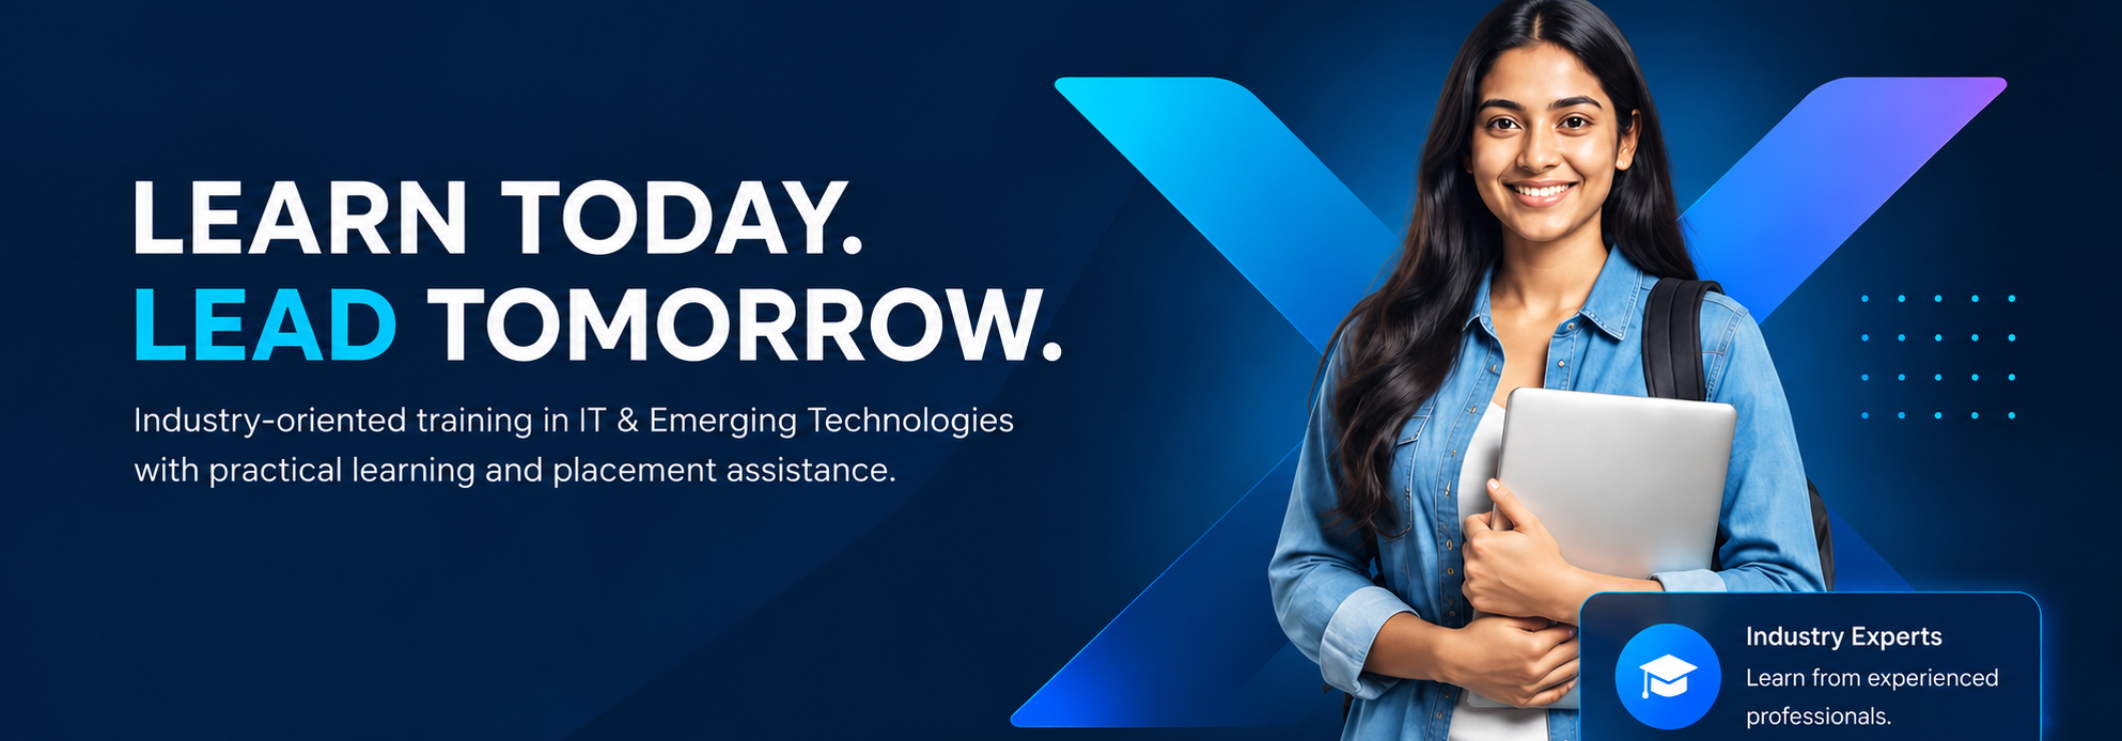
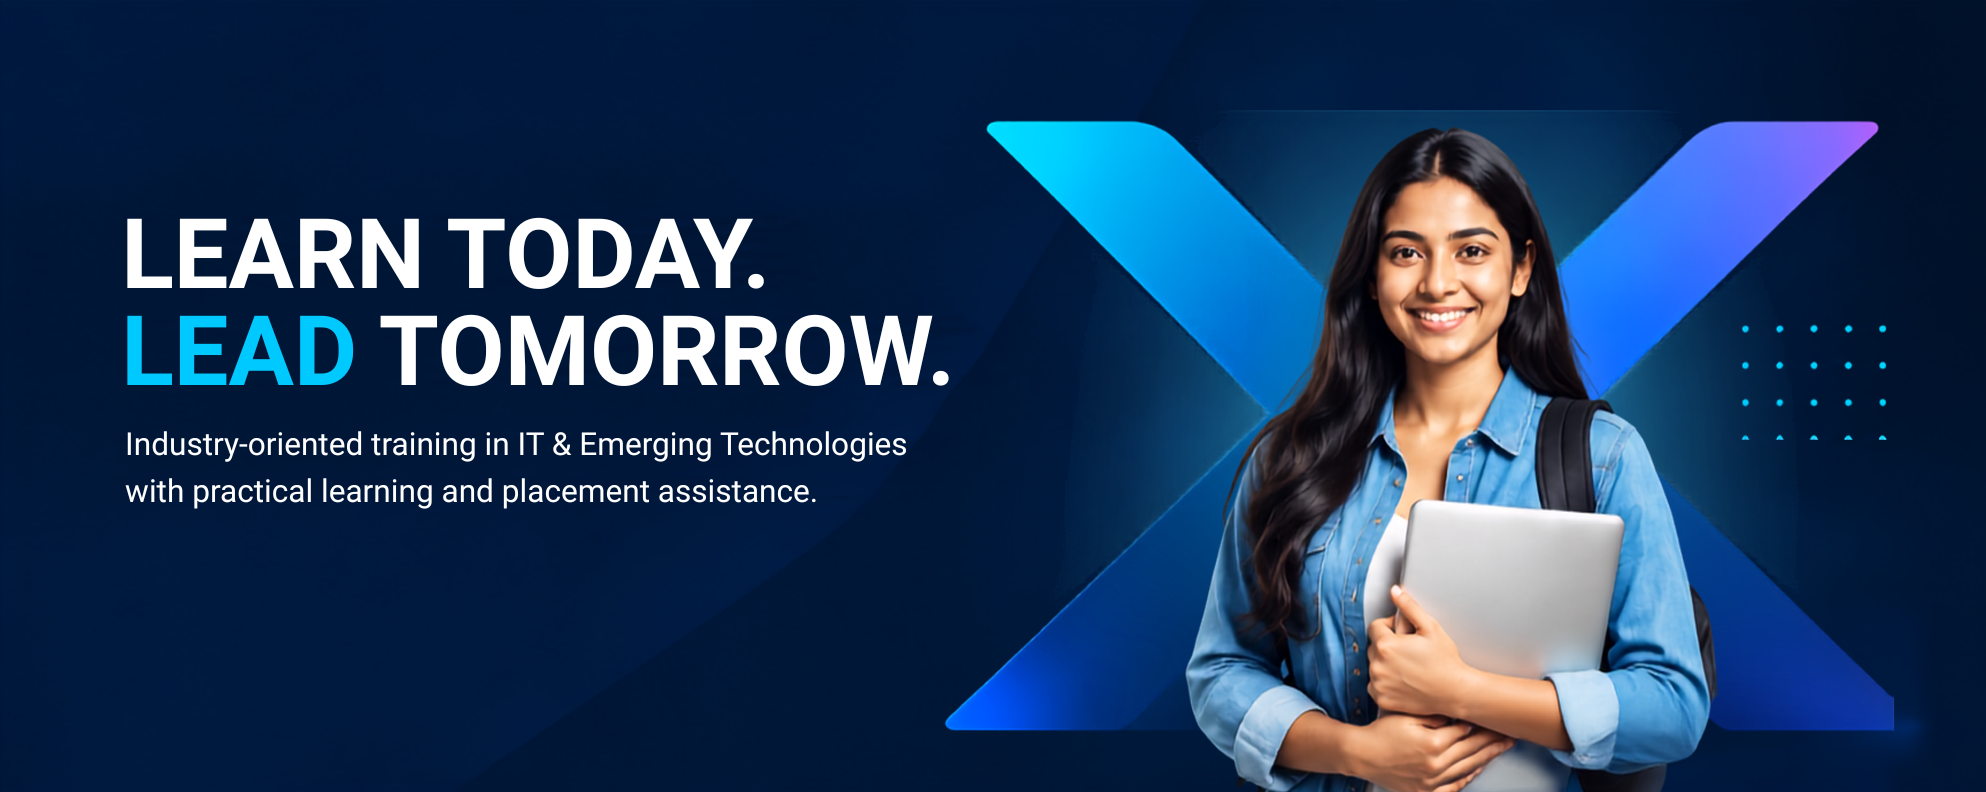
Added Smooth Scroll Effect

diff --git a/frontend/src/pages/Pageloader.jsx b/frontend/src/pages/Pageloader.jsx
@@ -1,68 +1,56 @@
-const orbitItems = ["</>", "AI", "JS", "{ }", "PY", "UX"];
-
 export default function PageLoader({ compact = false }) {
   return (
     <div
-      className={`${compact ? "min-h-[22rem]" : "fixed inset-0 z-[9998] min-h-screen"} grid place-items-center overflow-hidden bg-[#071426] px-6 text-white`}
+      className={`${
+        compact
+          ? "relative min-h-[16rem] w-full"
+          : "fixed inset-0 z-[9999] min-h-screen w-screen"
+      } flex items-center justify-center bg-white px-6 select-none`}
       role="status"
       aria-live="polite"
-      aria-label="Loading Simatrix Academy"
+      aria-label="Loading"
     >
-      <div className="relative flex flex-col items-center text-center">
-        <div className="pointer-events-none absolute left-1/2 top-16 h-56 w-56 -translate-x-1/2 rounded-full bg-blue-500/15 blur-3xl" aria-hidden="true" />
+      {/* Top hairline progress bar (Vercel / GitHub style) */}
+      <div className="fixed inset-x-0 top-0 z-50 h-[2.5px] overflow-hidden bg-slate-100">
+        <div className="h-full bg-gradient-to-r from-blue-600 via-indigo-600 to-purple-600 animate-top-stream" />
+      </div>
 
-        <div className="simatrix-loader-mark relative h-36 w-64" aria-hidden="true">
-          <svg viewBox="0 0 240 120" className="absolute inset-0 h-full w-full overflow-visible">
-            <defs>
-              <linearGradient id="loader-gradient" x1="0" y1="0" x2="1" y2="1">
-                <stop offset="0" stopColor="#38bdf8" />
-                <stop offset=".5" stopColor="#2563eb" />
-                <stop offset="1" stopColor="#a855f7" />
-              </linearGradient>
-              <filter id="loader-glow"><feGaussianBlur stdDeviation="3" result="blur" /><feMerge><feMergeNode in="blur" /><feMergeNode in="SourceGraphic" /></feMerge></filter>
-            </defs>
-            <path className="simatrix-loader-track" d="M18 60C18 22 59 18 91 60s73 38 73 0-41-42-73 0-73 38-73 0Z" />
-            <path className="simatrix-loader-stroke" d="M18 60C18 22 59 18 91 60s73 38 73 0-41-42-73 0-73 38-73 0Z" />
-            <circle className="simatrix-loader-spark" r="5" fill="#fbbf24" filter="url(#loader-glow)">
-              <animateMotion dur="2.4s" repeatCount="indefinite" path="M18 60C18 22 59 18 91 60s73 38 73 0-41-42-73 0-73 38-73 0Z" />
-            </circle>
-          </svg>
-
-          {orbitItems.map((item, index) => (
-            <span
-              key={item}
-              className="simatrix-loader-token absolute grid h-9 w-9 place-items-center rounded-xl border border-white/15 bg-white/10 text-[10px] font-black text-slate-100 shadow-lg backdrop-blur"
-              style={{ "--token-index": index }}
-            >
-              {item}
-            </span>
-          ))}
-
-          <span className="absolute left-1/2 top-1/2 grid h-14 w-14 -translate-x-1/2 -translate-y-1/2 place-items-center rounded-2xl border border-amber-300/30 bg-[#0d1b32] text-2xl font-black text-amber-300 shadow-2xl shadow-blue-500/30">S</span>
-        </div>
-
-        <p className="mt-1 text-xs font-bold uppercase tracking-[.32em] text-amber-300">Simatrix Academy</p>
-        <p className="mt-3 text-sm text-slate-400">Preparing your next learning step</p>
-        <div className="mt-5 h-1 w-44 overflow-hidden rounded-full bg-white/10" aria-hidden="true"><span className="simatrix-loader-progress block h-full w-1/2 rounded-full bg-gradient-to-r from-sky-400 via-blue-500 to-violet-500" /></div>
+      {/* Centered minimalist hairline loading bar */}
+      <div className="relative h-[3px] w-36 sm:w-44 overflow-hidden rounded-full bg-slate-100">
+        <div className="h-full rounded-full bg-gradient-to-r from-blue-600 via-indigo-600 to-purple-600 animate-center-stream" />
       </div>
 
       <style>{`
-        .simatrix-loader-track { fill: none; stroke: rgba(255,255,255,.09); stroke-width: 7; }
-        .simatrix-loader-stroke { fill: none; stroke: url(#loader-gradient); stroke-width: 5; stroke-linecap: round; stroke-dasharray: 32 220; animation: simatrix-trace 2.4s linear infinite; filter: url(#loader-glow); }
-        .simatrix-loader-token { left: calc(50% - 1.125rem); top: calc(50% - 1.125rem); animation: simatrix-token-orbit 4.8s linear infinite; animation-delay: calc(var(--token-index) * -0.8s); }
-        .simatrix-loader-progress { animation: simatrix-progress 1.5s ease-in-out infinite; }
-        @keyframes simatrix-trace { to { stroke-dashoffset: -252; } }
-        @keyframes simatrix-token-orbit {
-          0% { transform: rotate(0deg) translateX(108px) rotate(0deg) scale(.82); opacity: .45; }
-          50% { opacity: 1; transform: rotate(180deg) translateX(108px) rotate(-180deg) scale(1); }
-          100% { transform: rotate(360deg) translateX(108px) rotate(-360deg) scale(.82); opacity: .45; }
+        @keyframes top-stream {
+          0% {
+            transform: translateX(-100%);
+          }
+          50% {
+            transform: translateX(0%);
+          }
+          100% {
+            transform: translateX(100%);
+          }
         }
-        @keyframes simatrix-progress { 0% { transform: translateX(-110%); } 50% { transform: translateX(50%); } 100% { transform: translateX(210%); } }
-        @media (prefers-reduced-motion: reduce) {
-          .simatrix-loader-stroke, .simatrix-loader-token, .simatrix-loader-progress { animation: none; }
-          .simatrix-loader-stroke { stroke-dasharray: none; }
-          .simatrix-loader-token { display: none; }
-          .simatrix-loader-progress { width: 100%; opacity: .75; }
+        @keyframes center-stream {
+          0% {
+            transform: translateX(-120%);
+            width: 35%;
+          }
+          50% {
+            transform: translateX(80%);
+            width: 55%;
+          }
+          100% {
+            transform: translateX(260%);
+            width: 35%;
+          }
+        }
+        .animate-top-stream {
+          animation: top-stream 1.6s cubic-bezier(0.4, 0, 0.2, 1) infinite;
+        }
+        .animate-center-stream {
+          animation: center-stream 1.4s cubic-bezier(0.45, 0, 0.55, 1) infinite;
         }
       `}</style>
     </div>

diff --git a/frontend/src/pages/Home.jsx b/frontend/src/pages/Home.jsx
@@ -2,7 +2,8 @@ import { useEffect, useMemo, useRef, useState } from "react";
 import { Link } from "react-router-dom";
 import { api, mediaUrl } from "../api/client";
 import { icon } from "../lib/icons";
-import { Spinner, ResponsiveImage } from "../components/ui";
+import { ResponsiveImage } from "../components/ui";
+import PageLoader from "./Pageloader";
 import EnquiryForm from "../components/EnquiryForm";
 import { useSeo } from "../lib/useSeo";
 import avatar1 from "../assets/avatar1.png";
@@ -500,7 +501,7 @@ export default function Home() {
     window.requestAnimationFrame(() => enquiryRef.current?.scrollIntoView({ behavior: "smooth", block: "start" }));
   };
 
-  if (!data && !error) return <div className="grid min-h-[60vh] place-items-center bg-slate-50"><Spinner className="text-3xl" /></div>;
+  if (!data && !error) return <PageLoader />;
 
   return <main ref={mainRef} id="main-content" className="overflow-hidden bg-white">
     <div className="pointer-events-none fixed inset-x-0 top-0 z-[70] h-1 bg-transparent" aria-hidden="true"><span className="block h-full origin-left bg-gradient-to-r from-amber-400 via-orange-500 to-brand-600 shadow-[0_0_12px_rgba(245,158,11,.45)]" style={{ transform: `scaleX(${scrollProgress})` }} /></div>

diff --git a/frontend/src/lib/Uselenis.js b/frontend/src/lib/Uselenis.js
@@ -1,32 +1,4 @@
-import { useEffect } from "react";
-import Lenis from "lenis";
-import gsap from "gsap";
-import { ScrollTrigger } from "gsap/ScrollTrigger";
-
-gsap.registerPlugin(ScrollTrigger);
-
-
+// Lenis smooth-scrolling is permanently disabled in favor of native 120Hz/60Hz browser scrolling.
 export function useLenis() {
-  useEffect(() => {
-    const reduce = window.matchMedia?.("(prefers-reduced-motion: reduce)").matches;
-    if (reduce) return;
-
-    const lenis = new Lenis({
-      duration: 1.1,
-      easing: (t) => 1 - Math.pow(1 - t, 3),
-      smoothWheel: true,
-    });
-
-    lenis.on("scroll", ScrollTrigger.update);
-
-    gsap.ticker.add((time) => {
-      lenis.raf(time * 1000);
-    });
-    gsap.ticker.lagSmoothing(0);
-
-    return () => {
-      lenis.destroy();
-      gsap.ticker.remove(lenis.raf);
-    };
-  }, []);
-}
+  return;
+}

diff --git a/frontend/src/pages/Uselenis.jsx b/frontend/src/pages/Uselenis.jsx
@@ -1,32 +1,4 @@
-import { useEffect } from "react";
-import Lenis from "lenis";
-import gsap from "gsap";
-import { ScrollTrigger } from "gsap/ScrollTrigger";
-
-gsap.registerPlugin(ScrollTrigger);
-
-
+// Lenis smooth-scrolling is permanently disabled in favor of native browser scrolling.
 export function useLenis() {
-  useEffect(() => {
-    const reduce = window.matchMedia?.("(prefers-reduced-motion: reduce)").matches;
-    if (reduce) return;
-
-    const lenis = new Lenis({
-      duration: 1.1,
-      easing: (t) => 1 - Math.pow(1 - t, 3),
-      smoothWheel: true,
-    });
-
-    lenis.on("scroll", ScrollTrigger.update);
-
-    gsap.ticker.add((time) => {
-      lenis.raf(time * 1000);
-    });
-    gsap.ticker.lagSmoothing(0);
-
-    return () => {
-      lenis.destroy();
-      gsap.ticker.remove(lenis.raf);
-    };
-  }, []);
-}
+  return;
+}

diff --git a/frontend/src/components/layout/PublicLayout.jsx b/frontend/src/components/layout/PublicLayout.jsx
@@ -3,7 +3,6 @@ import { Outlet, useLocation } from "react-router-dom";
 import Navbar from "./Navbar";
 import Footer from "./Footer";
 import AcademyChatbot from "../AcademyChatbot";
-import { useLenis } from "../../lib/Uselenis";
 
 const BUTTON_PRIMARY = "#2563EB";
 const BUTTON_HOVER = "#1D4ED8";
@@ -56,7 +55,6 @@ function BackToTop() {
 
 export default function PublicLayout() {
   const { pathname } = useLocation();
-  useLenis();
   useEffect(() => {
     window.scrollTo({ top: 0, behavior: "auto" });
     const main = document.getElementById("main");
